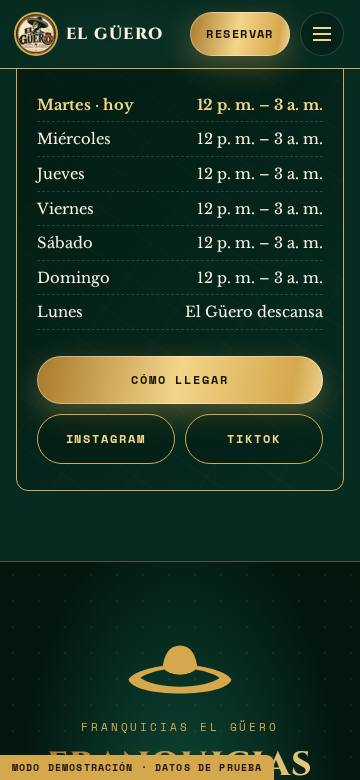
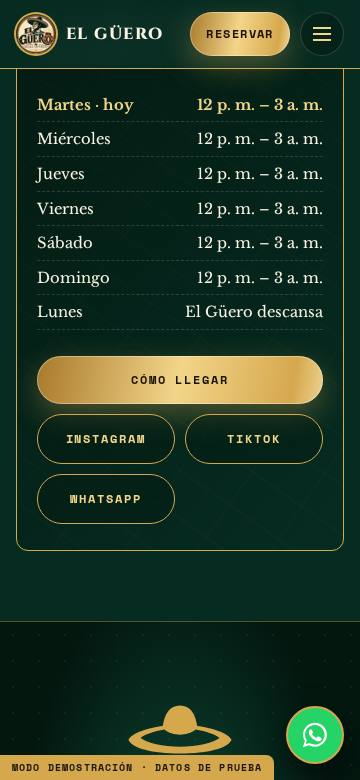
WhatsApp visible con número provisional (pendiente del oficial)
- Botón flotante de WhatsApp y botón en Ubicación siempre visibles
- Número provisional 570000000000 (inválido a propósito) mientras no se configure VITE_WHATSAPP_NUMBER
- Docs actualizadas: README, INTEGRATION_HANDOFF, CONTENT_STATUS, .env.example

diff --git a/index.html b/index.html
@@ -263,7 +263,7 @@
           <a class="btn btn-oro" href="https://maps.app.goo.gl/8WZ3bj1DLoZp1nVKA" target="_blank" rel="noopener" data-cta="maps">Cómo llegar</a>
           <a class="btn btn-linea" href="https://www.instagram.com/divinocantarito/" target="_blank" rel="noopener">Instagram</a>
           <a class="btn btn-linea" href="https://www.tiktok.com/@divinocantarito" target="_blank" rel="noopener">TikTok</a>
-          <a class="btn btn-linea" id="wa-inline" href="#" target="_blank" rel="noopener" hidden>WhatsApp</a>
+          <a class="btn btn-linea" id="wa-inline" href="#reservas" target="_blank" rel="noopener" data-cta="whatsapp-ubicacion">WhatsApp</a>
         </div>
       </div>
     </div>
@@ -291,7 +291,7 @@
   <p class="credit">El exceso de alcohol es perjudicial para la salud. Prohíbase el expendio de bebidas embriagantes a menores de edad. · Sitio por Agent.IA Labs</p>
 </footer>
 
-<a class="fab" id="fab" href="#reservas" aria-label="Reservar mi mesa"><span class="tip">¿Te aparto mesa, güero?</span><svg viewBox="0 0 24 24" aria-hidden="true"><use href="#ico-mesa"/></svg></a>
+<a class="fab" id="fab" href="#reservas" target="_blank" rel="noopener" aria-label="Escríbele al Güero por WhatsApp" data-cta="whatsapp-flotante"><span class="tip">¿Qué se te antoja, compa?</span><svg viewBox="0 0 32 32" aria-hidden="true"><use href="#ico-wa"/></svg></a>
 
 <!-- Cumpleaños: diálogo con formulario -->
 <dialog class="modal" id="dlg-cumple" aria-labelledby="cumple-title">
@@ -321,8 +321,7 @@
 
 <svg width="0" height="0" style="position:absolute" aria-hidden="true">
   <symbol id="ico-sombrero" viewBox="0 0 64 32"><path d="M32 2c-6 0-9 5-10 12-8 1-18 4-20 8 2 5 14 8 30 8s28-3 30-8c-2-4-12-7-20-8C41 7 38 2 32 2zm-9 14c2 2 6 3 9 3s7-1 9-3c6 1 12 3 14 5-4 3-13 5-23 5S13 24 9 21c2-2 8-4 14-5z"/></symbol>
-  <symbol id="ico-mesa" viewBox="0 0 24 24"><path d="M3 7h18v3H3zM5 10h2v10H5zm12 0h2v10h-2zM8 3h8v2H8z"/></symbol>
-  <symbol id="ico-wa" viewBox="0 0 32 32"><path d="M16 3C9 3 3.3 8.6 3.3 15.6c0 2.5.7 4.8 2 6.8L3 29l6.8-2.2c1.9 1 4 1.6 6.2 1.6 7 0 12.7-5.7 12.7-12.7S23 3 16 3zm0 23.2c-2 0-3.9-.6-5.6-1.6l-.4-.2-4 1.3 1.3-3.9-.3-.4a10.4 10.4 0 1 1 9 4.8z"/></symbol>
+  <symbol id="ico-wa" viewBox="0 0 32 32"><path d="M16 3C9 3 3.3 8.6 3.3 15.6c0 2.5.7 4.8 2 6.8L3 29l6.8-2.2c1.9 1 4 1.6 6.2 1.6 7 0 12.7-5.7 12.7-12.7S23 3 16 3zm0 23.2c-2 0-3.9-.6-5.6-1.6l-.4-.2-4 1.3 1.3-3.9-.3-.4a10.4 10.4 0 1 1 9 4.8zm5.7-7.8c-.3-.2-1.9-.9-2.2-1s-.5-.2-.7.2-.8 1-1 1.2-.4.2-.7 0a8.5 8.5 0 0 1-4.2-3.7c-.3-.5.3-.5.9-1.6.1-.2 0-.4 0-.5l-1-2.4c-.3-.6-.5-.5-.7-.5h-.6c-.2 0-.6.1-.9.4s-1.2 1.1-1.2 2.8 1.2 3.2 1.4 3.5 2.4 3.6 5.8 5c2.1.9 3 1 4 .8.7-.1 1.9-.8 2.2-1.5s.3-1.4.2-1.5-.3-.2-.6-.3z"/></symbol>
 </svg>
 </body>
 </html>

diff --git a/src/styles/main.css b/src/styles/main.css
@@ -418,10 +418,9 @@ input[aria-invalid="true"], select[aria-invalid="true"] { border-color: var(--er
 .credit { margin-top: 18px; font-size: .74rem; opacity: .75; max-width: 680px; margin-inline: auto; }
 
 /* ---------- Flotantes ---------- */
-.fab { position: fixed; right: 16px; bottom: calc(16px + env(safe-area-inset-bottom)); z-index: 90; width: 58px; height: 58px; border-radius: 50%; display: grid; place-items: center; background: var(--oro-g); border: 2px solid var(--verde); box-shadow: 0 12px 30px rgba(0, 0, 0, .5); transition: transform .25s, opacity .3s; }
-.fab svg { width: 26px; height: 26px; fill: var(--verde3); }
+.fab { position: fixed; right: 16px; bottom: calc(16px + env(safe-area-inset-bottom)); z-index: 90; width: 58px; height: 58px; border-radius: 50%; display: grid; place-items: center; background: #25d366; border: 2px solid var(--oro); box-shadow: 0 12px 30px rgba(0, 0, 0, .5); transition: transform .25s, opacity .3s; }
+.fab svg { width: 30px; height: 30px; fill: #fff; }
 .fab:hover { transform: scale(1.08) rotate(-6deg); }
-.fab.hide { opacity: 0; pointer-events: none; transform: scale(.8); }
 .fab .tip { position: absolute; right: 70px; background: var(--crema); color: var(--tinta); font-family: var(--f-mano); font-weight: 700; font-size: 1.25rem; padding: 6px 12px; border-radius: 12px; white-space: nowrap; box-shadow: 0 8px 20px rgba(0, 0, 0, .3); opacity: 0; transform: translateX(10px); transition: .3s; pointer-events: none; }
 .fab.hi .tip { opacity: 1; transform: none; }
 .demo-flag { position: fixed; left: 0; bottom: 0; z-index: 400; background: var(--oro); color: var(--tinta); font-family: var(--f-slab); font-size: .6rem; font-weight: 700; letter-spacing: .12em; text-transform: uppercase; padding: 5px 12px; border-top-right-radius: 8px; }

diff --git a/src/config/env.js b/src/config/env.js
@@ -5,13 +5,19 @@
  */
 const env = import.meta.env;
 const params = new URLSearchParams(window.location.search);
+export const WHATSAPP_PLACEHOLDER = '570000000000';
 
 export const config = {
   /** 'mock' = datos de demostración · 'http' = API de Agent.IA */
   dataSource: env.VITE_DATA_SOURCE === 'http' ? 'http' : 'mock',
   apiBaseUrl: (env.VITE_API_BASE_URL || '').replace(/\/$/, ''),
-  /** Vacío = botón de WhatsApp oculto (canal oficial pendiente de Agent.IA). */
-  whatsappNumber: (env.VITE_WHATSAPP_NUMBER || '').replace(/\D/g, ''),
+  /**
+   * WhatsApp oficial PENDIENTE. Mientras no se configure VITE_WHATSAPP_NUMBER se usa un
+   * número provisional inválido a propósito (570000000000), para que el botón se vea
+   * sin mandarle mensajes a nadie real. Reemplazar por el oficial antes del lanzamiento.
+   */
+  whatsappNumber: (env.VITE_WHATSAPP_NUMBER || WHATSAPP_PLACEHOLDER).replace(/\D/g, ''),
+  whatsappPending: !env.VITE_WHATSAPP_NUMBER,
   siteUrl: env.VITE_SITE_URL || window.location.origin,
   timeZone: 'America/Bogota',
   requestTimeoutMs: 12000,

diff --git a/src/components/location.js b/src/components/location.js
@@ -17,12 +17,16 @@ export function initHorario() {
 }
 
 /**
- * WhatsApp: preparado, no conectado. Solo aparece si Agent.IA configura
- * VITE_WHATSAPP_NUMBER con el número oficial.
+ * WhatsApp: botón flotante + botón en Ubicación. Visibles siempre; mientras el número
+ * oficial esté pendiente usan el provisional de config (ver env.js).
  */
 export function initWhatsApp() {
-  if (!config.whatsappNumber) return;
-  const link = $('#wa-inline');
-  link.href = `https://wa.me/${config.whatsappNumber}?text=${encodeURIComponent('¡Qué onda, Güero! Tengo una pregunta 🙌')}`;
-  link.hidden = false;
+  const href = `https://wa.me/${config.whatsappNumber}?text=${encodeURIComponent('¡Qué onda, Güero! Tengo una pregunta 🙌')}`;
+  ['#wa-inline', '#fab'].forEach((sel) => {
+    const link = $(sel);
+    if (!link) return;
+    link.href = href;
+    link.hidden = false;
+    if (config.whatsappPending) link.dataset.pending = 'true';
+  });
 }

diff --git a/src/components/header.js b/src/components/header.js
@@ -23,16 +23,10 @@ export function initHeader() {
   document.addEventListener('keydown', (e) => { if (e.key === 'Escape') close(); });
 }
 
-/** Botón flotante: se esconde en el hero y en la sección de reservas. */
+/** Botón flotante de WhatsApp (siempre visible) con saludo del Güero. */
 export function initFab() {
   const fab = $('#fab');
   if (!fab) return;
-  const hidden = new Set();
-  const io = new IntersectionObserver((es) => {
-    es.forEach((e) => (e.isIntersecting ? hidden.add(e.target.id) : hidden.delete(e.target.id)));
-    fab.classList.toggle('hide', hidden.size > 0);
-  }, { threshold: 0.15 });
-  ['inicio', 'reservas'].forEach((id) => { const s = document.getElementById(id); if (s) io.observe(s); });
   setTimeout(() => fab.classList.add('hi'), 6000);
   setTimeout(() => fab.classList.remove('hi'), 11000);
 }

diff --git a/INTEGRATION_HANDOFF.md b/INTEGRATION_HANDOFF.md
@@ -29,7 +29,7 @@ Reglas que el frontend ya cumple:
 | Cumpleaños | `submitBirthdayRequest()` | Recibir solicitud de cotización | Mock |
 | Promociones | `getPromotions()` | Solo activas (borradores nunca en la API pública) | Mock (2 borradores) |
 | Eventos | `getEvents()` | Solo publicados | Mock (gran apertura) |
-| WhatsApp | `VITE_WHATSAPP_NUMBER` | Número oficial; agente conversacional del lado de ustedes | Oculto hasta configurar |
+| WhatsApp | `VITE_WHATSAPP_NUMBER` | Número oficial; agente conversacional del lado de ustedes | Botones visibles con número provisional `570000000000` (pendiente) |
 | CRM / analítica | `track(name, props)` en `src/components/forms.js` | Destino de eventos de conversión | Emite `CustomEvent('guero:track')`, no envía nada |
 
 ## 3. Estructuras de datos
@@ -148,7 +148,7 @@ Los botones principales tienen `data-cta="…"` para medir clics (p. ej. `hero-r
 
 - [ ] Contratos API definitivos (este documento como punto de partida).
 - [ ] CORS de la API para el dominio del sitio (y `localhost:3031` en desarrollo).
-- [ ] Número oficial de WhatsApp → `VITE_WHATSAPP_NUMBER`.
+- [ ] **Número oficial de WhatsApp → `VITE_WHATSAPP_NUMBER`** (hoy los botones usan el provisional `570000000000`).
 - [ ] Destino de `track()` (CRM / analítica).
 - [ ] Enlace a la política de tratamiento de datos (checkbox de los formularios).
 - [ ] Carta de bebidas cargada en el backend (los datos de demo no la incluyen).

diff --git a/README.md b/README.md
@@ -108,7 +108,7 @@ Ver [`.env.example`](.env.example). Todas son **públicas** (terminan en el JS d
 |---|---|---|
 | `VITE_DATA_SOURCE` | `mock` | `mock` = demo con datos de prueba · `http` = API de Agent.IA |
 | `VITE_API_BASE_URL` | vacío | URL base de la API cuando `VITE_DATA_SOURCE=http` |
-| `VITE_WHATSAPP_NUMBER` | vacío | Número oficial. Vacío = botón de WhatsApp oculto |
+| `VITE_WHATSAPP_NUMBER` | vacío | Número oficial. **Pendiente**: vacío = botones visibles con el número provisional `570000000000` (inválido a propósito, no le llega a nadie) |
 | `VITE_SITE_URL` | `https://elgueropro.netlify.app` | URL pública |
 
 ## Capa de servicios y mocks
@@ -145,7 +145,7 @@ Ver `docs/pruebas/` (capturas por tamaño, `responsive.txt`, `rendimiento.txt`, 
 
 ## Puntos pendientes de integración
 
-Detalle en `INTEGRATION_HANDOFF.md`. Resumen: API de carta, reservas, cumpleaños, promociones y eventos; número oficial de WhatsApp; destino de `track()` (analítica/CRM); política de tratamiento de datos (enlace del checkbox).
+Detalle en `INTEGRATION_HANDOFF.md`. Resumen: API de carta, reservas, cumpleaños, promociones y eventos; número oficial de WhatsApp (hoy provisional); destino de `track()` (analítica/CRM); política de tratamiento de datos (enlace del checkbox).
 
 ## Limitaciones conocidas
 

diff --git a/CONTENT_STATUS.md b/CONTENT_STATUS.md
@@ -50,7 +50,7 @@ Mientras no haya promociones activas, la sección muestra «Las promos del Güer
 
 | Dato | Estado |
 |---|---|
-| Número oficial de WhatsApp | Pendiente → el botón está oculto. Se quitó el 573113624686 de la v1 (no estaba confirmado) |
+| Número oficial de WhatsApp | **Pendiente.** Botón flotante y botón de Ubicación visibles con el número provisional `570000000000` (inválido a propósito, no le escribe a nadie). Se quitó el 573113624686 de la v1 (no estaba confirmado) |
 | Dirección exacta | **No se publica** (no validada). Solo «Laureles · Medellín» + enlace oficial de Google Maps. Se quitó «Carrera 66A #33-05» y el mapa con coordenadas de la v1 |
 | Correo de contacto | No hay |
 | Política de tratamiento de datos (enlace del checkbox) | Falta el documento |
@@ -72,4 +72,4 @@ Mientras no haya promociones activas, la sección muestra «Las promos del Güer
 - Sección «El retador del fin de semana» (dependía de esos productos).
 - Código de reserva ficticio (EG-XXXX) y sello «Apartado».
 - Fotos de Instagram de relleno y la nota de reseñas.
-- Dirección exacta, mapa con coordenadas y WhatsApp no confirmado.
+- Dirección exacta, mapa con coordenadas y el WhatsApp no confirmado de la v1 (reemplazado por un provisional).
